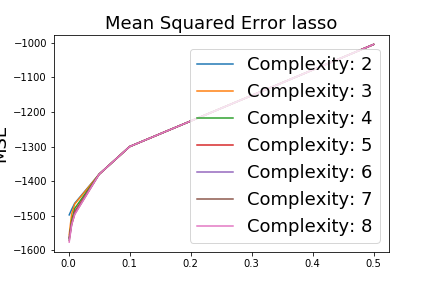
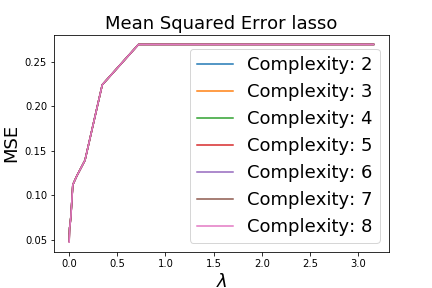
uptdate, done with ridge and ci

diff --git a/Project1/ex1.py b/Project1/ex1.py
@@ -41,12 +41,15 @@ def ols(X, z):
     return np.linalg.pinv(X.T @ X) @ X.T @ z
 
 def ridge(X, z, lmb):
-    return np.linalg.pinv(X.T @ X + lmb*np.identity(n)) @ X.T @ z
+    return np.linalg.pinv(X.T @ X + lmb*np.identity(X.shape[1])) @ X.T @ z
 
 def lasso(X, z, lmb):
-    reg = Lasso(alpha=lmb, fit_intercept=True)
+    reg = Lasso(alpha=lmb, fit_intercept=False)
     reg.fit(X, z)
-    return np.array(reg.coef_)
+    return reg.coef_
+
+def var_beta(X):
+        return np.diag(X.T @ X)
 
 def predict(X, beta):
     return X @ beta
@@ -58,7 +61,7 @@ def FrankeFunction(x,y):
     term4 = -0.2*np.exp(-(9*x-4)**2 - (9*y-7)**2)
     return term1 + term2 + term3 + term4
 
-def kfold(X,z,k, plot = False):
+def kfold(X,z,k, plot = False): # X = X_train, z = z_train
     #Exercise 2
     mse_test = np.zeros((complex, k)) #for storing kfold samples' MSE for varying complexity (rows:complexity, columns:bootstrap sample)
     mse_train = np.zeros((complex, k))
@@ -88,11 +91,15 @@ def kfold(X,z,k, plot = False):
     if plot:
         plot_mse(mean_mse_train, mean_mse_test, method_header = "k-fold")
 
-def evaluate_method(method, train_test_l, d, scale = True, lmb = False):
+def evaluate_method(method, train_test_l, d, scale = True, lmb = False, first_col = True, return_beta = False):
+
     X_train, X_test, z_train, z_test = train_test_l
     l = int((d+1)*(d+2)/2)
     X_train = X_train[:,:l]
     X_test = X_test[:,:l]
+    if first_col == False:
+        X_train = X_train[:,1:]
+        X_test = X_test[:,1:]
 
     if scale: #scala data
         scaler = StandardScaler()
@@ -122,8 +129,10 @@ def evaluate_method(method, train_test_l, d, scale = True, lmb = False):
 
     r2_tilde = r2(z_train, z_tilde)
     r2_predict = r2(z_test, z_predict)
-
-    return mse_tilde, r2_tilde, mse_predict, r2_predict
+    if return_beta == False:
+        return mse_tilde, r2_tilde, mse_predict, r2_predict
+    else:
+        return mse_tilde, r2_tilde, mse_predict, r2_predict, beta
 
 def bootstrap(X,z):
     n = len(z)
@@ -140,6 +149,7 @@ def plot_mse(mse_train, mse_test, method_header = '', plot_complexity = True, la
         n_lmd = len(lambdas)
         for i in range(degree):
             plt.plot(lambdas, mse_test[i], label = f'Complexity: {complexities[i]}')
+            plt.xlabel("$ \lambda $", fontsize=labelsize)
 
     else:
         if plot_complexity:
@@ -157,7 +167,15 @@ def plot_mse(mse_train, mse_test, method_header = '', plot_complexity = True, la
     plt.legend()
     plt.show()
 
-
+def ci(beta, var, n, z=1.96):
+    print(beta)
+    print(var)
+    ci1 = beta - z*var/np.sqrt(n)
+    ci2 = beta + z*var/np.sqrt(n)
+    ci_final = []
+    for i in range(len(ci1)):
+        ci_final.append([ci1[i],ci2[i]])
+    return ci_final
 
 N = 1000
 x = np.random.uniform(0, 1, N)
@@ -174,13 +192,19 @@ X = create_X(x,y,complex)
 
 test_train_l = train_test_split(X,z,test_size=0.2)
 #Exercise 1
-
 print(f"OLS: {evaluate_method(ols, test_train_l, scale = False, d = 5)}")
 
 noise = np.random.normal(0, 1, size=(z.shape))
 z_noisy = FrankeFunction(x, y) + noise*0.2
 test_train_l_noise = train_test_split(X,z_noisy,test_size=0.2)
 print(f"OLS with noise: {evaluate_method(ols, test_train_l_noise, scale = False, d = 5)}")
+variance_beta = var_beta(test_train_l_noise[0])
+beta_l = ols(test_train_l_noise[0], test_train_l_noise[2])
+#print(variance_beta)
+confidence_interval = ci(beta_l, variance_beta, N)
+print(confidence_interval)
+
+
 
 #Exercise 2
 n_bs = 100 #number of bootstrap cycles
@@ -192,6 +216,7 @@ r2_train = np.zeros((complex, n_bs))
 #Bootstrap and plotting MSE vs complexity
 
 tts = train_test_split(X,z_noisy,test_size=0.2)
+beta_l = np.zeros(X.shape(1))
 for j in range(n_bs): #looping through bootstrap samples
     X_sample, z_sample = bootstrap(tts[0],tts[2])
     tts2 = [X_sample, tts[1], z_sample, tts[3]]
@@ -205,6 +230,7 @@ mean_r2_test = np.mean(r2_test, axis = 1)
 
 plot_mse(mean_mse_train, mean_mse_test, method_header = "bootstrap")
 
+"""
 
 #Bootstrap and plot MSE vs # datapoints
 n_points = np.arange(100,10001,100)
@@ -230,14 +256,14 @@ mean_r2_train_n = np.mean(r2_train_n, axis = 1)
 mean_r2_test_n = np.mean(r2_test_n, axis = 1)
 
 plot_mse(mean_mse_train_n, mean_mse_test_n, method_header = "bootstrap", plot_complexity = False)
-
+"""
 
 
 #Exercise 3, K-fold
 kfold(X, z_noisy, 5, plot = True)
 
-nlambdas = 10
-lambdas_values = [0.001,0.005,0.01,0.05,0.1,0.5]#np.logspace(-4,1,nlambdas)
+nlambdas = 15
+lambdas_values = np.logspace(-4,0.5,nlambdas) #[0.001, 0.005, 0.01, 0.05, 0.1, 0.5, 0.75, 1]
 print(lambdas_values)
 compl = [2,3,4,5,6,7,8]
 mse_test_lasso = np.zeros((len(compl), len(lambdas_values)))
@@ -248,6 +274,8 @@ r2_train_lasso = np.zeros((len(compl), len(lambdas_values)))
 
 for i in range(len(compl)):
     for j in range(len(lambdas_values)):
-        mse_train_lasso[i,j], mse_test_lasso[i,j], r2_train_lasso[i,j], r2_test_lasso[i,j] = evaluate_method(lasso, tts, lmb = lambdas_values[j], d=compl[i])
+        mse_train_lasso[i,j], r2_train_lasso[i,j], mse_test_lasso[i,j], r2_test_lasso[i,j] = evaluate_method(lasso,
+        tts, lmb = lambdas_values[j], d=compl[i], scale = False)
+
 print(np.min(mse_test_lasso))
 plot_mse(mse_train_lasso, mse_test_lasso, method_header = 'lasso', plot_complexity = True, lambdas = lambdas_values, complexities = compl)
